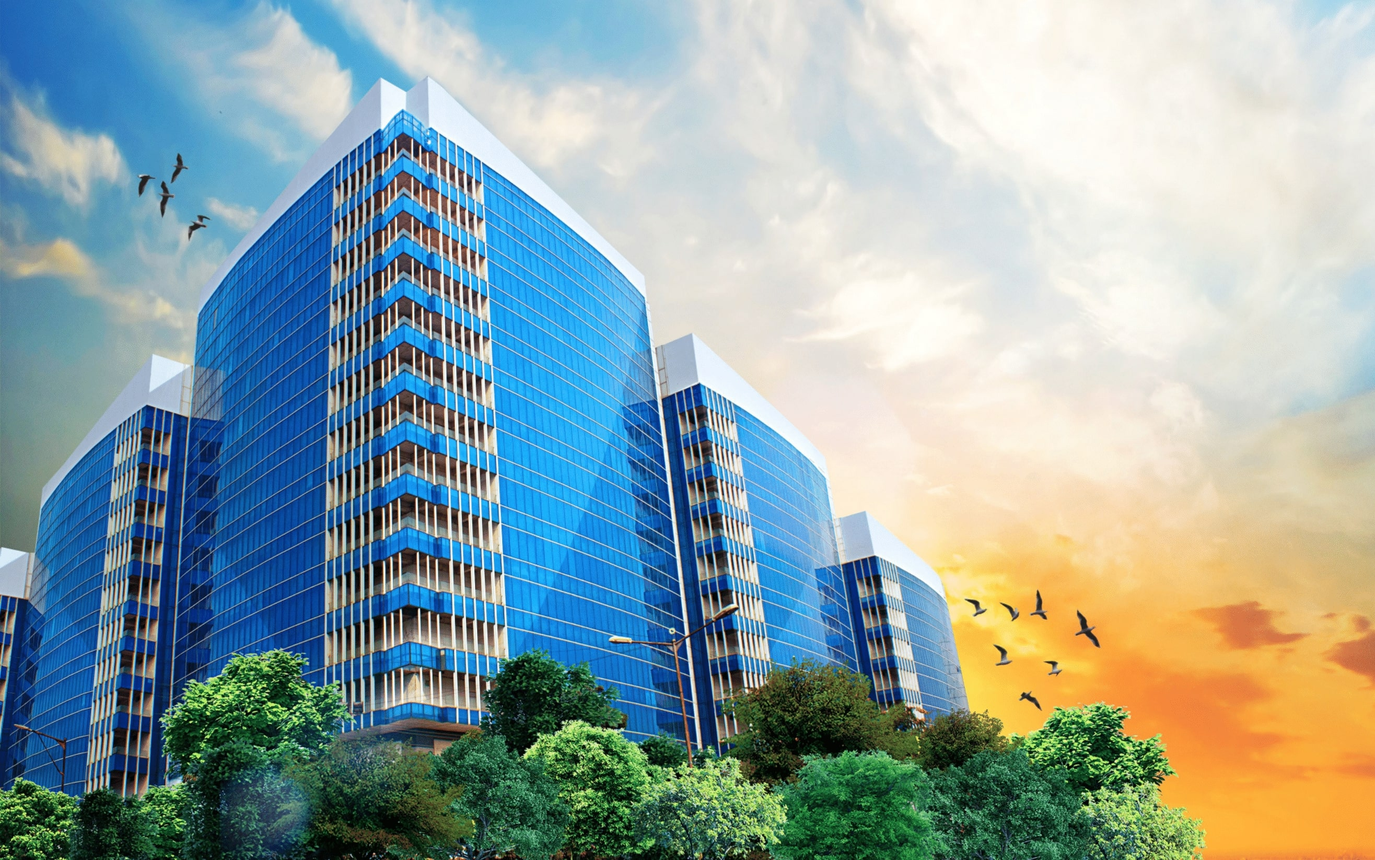
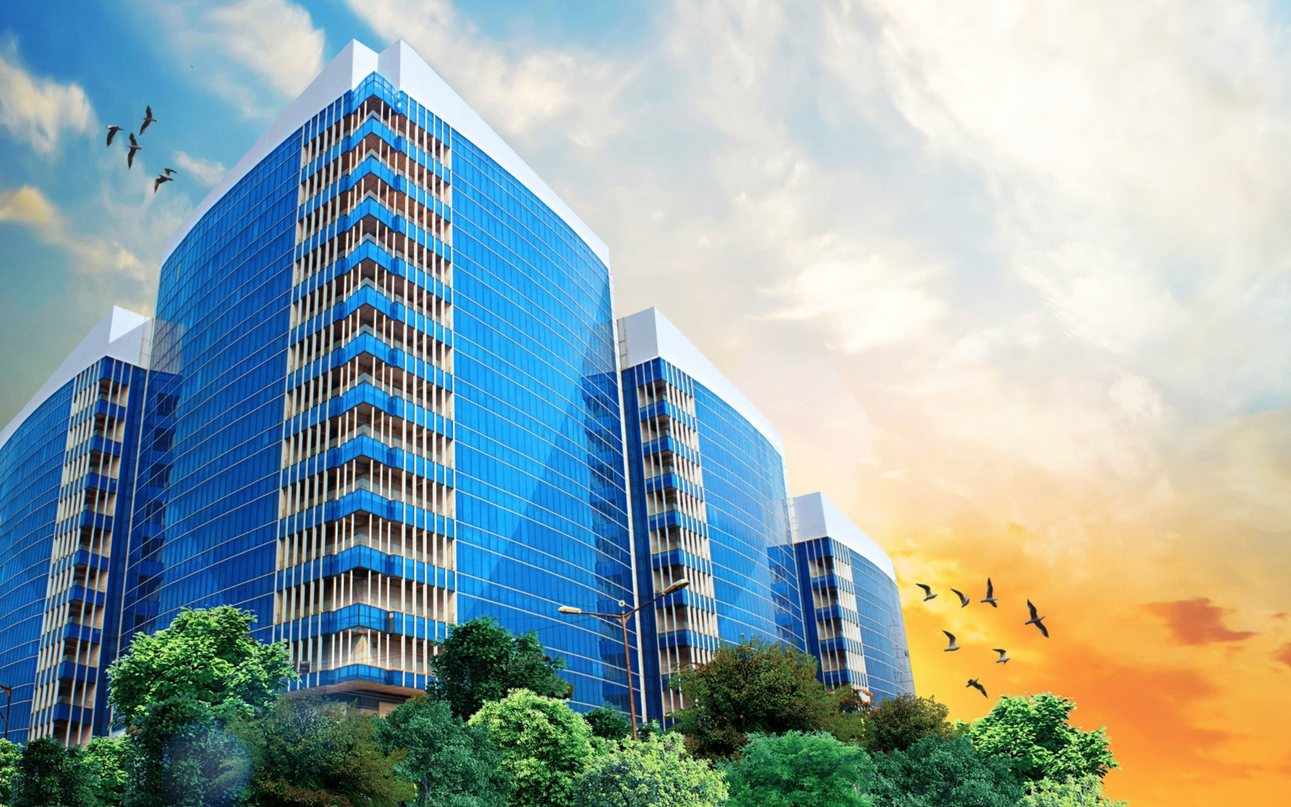
29-05-2024 (cover removed)

diff --git a/src/app/home/services/services.component.html b/src/app/home/services/services.component.html
@@ -1,10 +1,10 @@
 <section class="headline">
   <h1 data-aos="fade-right" data-aos-duration="1000" data-aos-delay="300">Services</h1>
-  <p>Co location Services | Other Services</p>
+  <p>Co-location Services | Other Services</p>
 </section>
 
 <section class="heading">
-  <h1>Co location Services</h1>
+  <h1>Co-location Services</h1>
 </section>
 
 <!--text-bg-img-->

diff --git a/src/app/home/services/services.component.scss b/src/app/home/services/services.component.scss
@@ -5,7 +5,7 @@
   background: linear-gradient(rgba(0, 0, 0, 0.297), rgba(0, 0, 0, 0.314)),
     url("../../../assets/images/Services/ManesarITPark-1.jpg");
   background-size: cover;
-  background-position: center;
+  background-position-x: 90%;
   background-attachment: fixed;
   display: flex;
   align-items: center;
